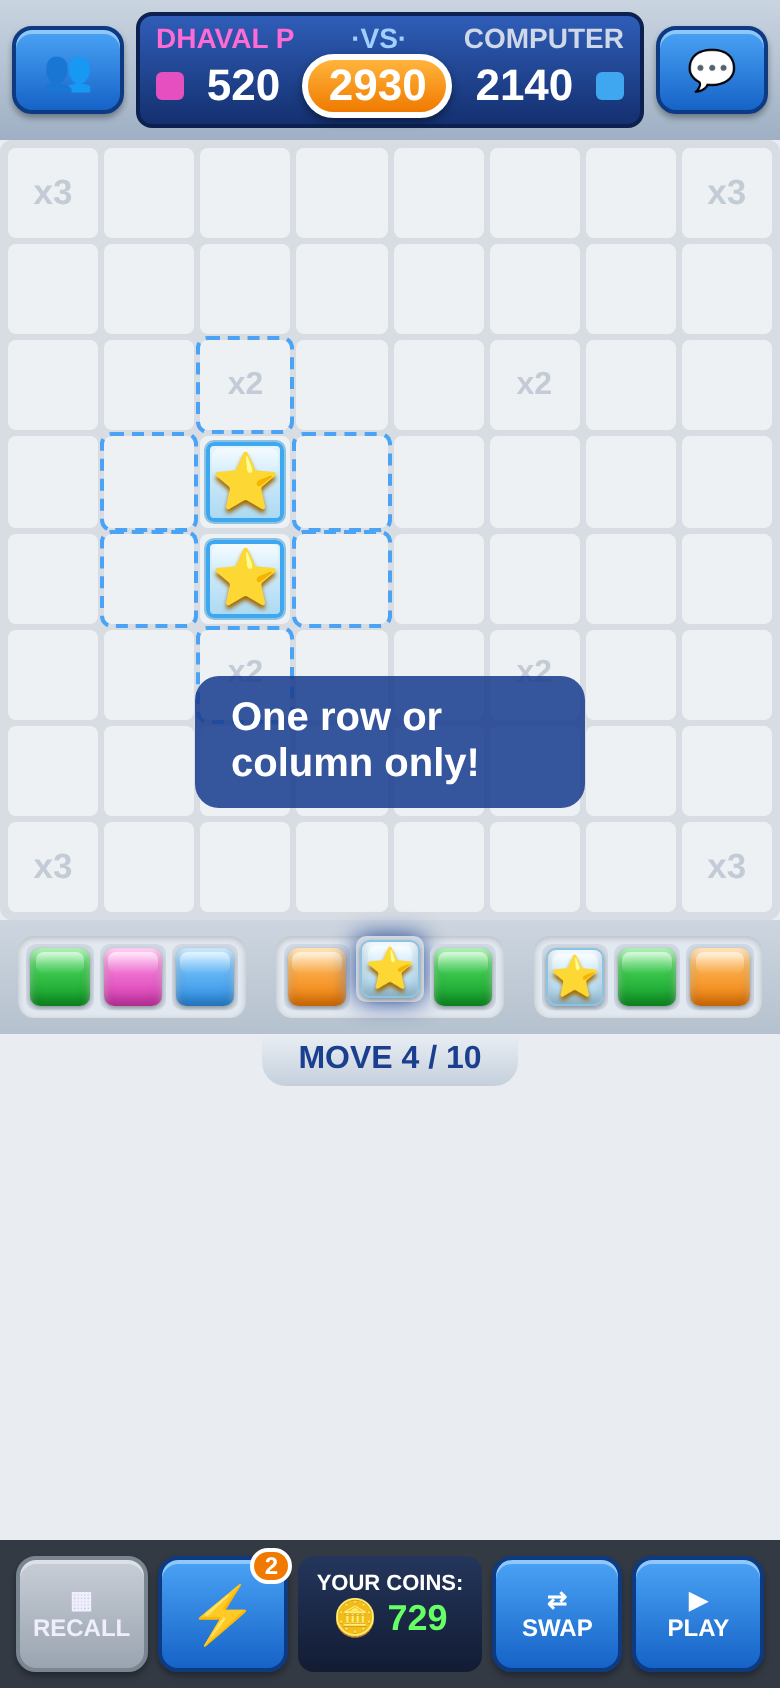
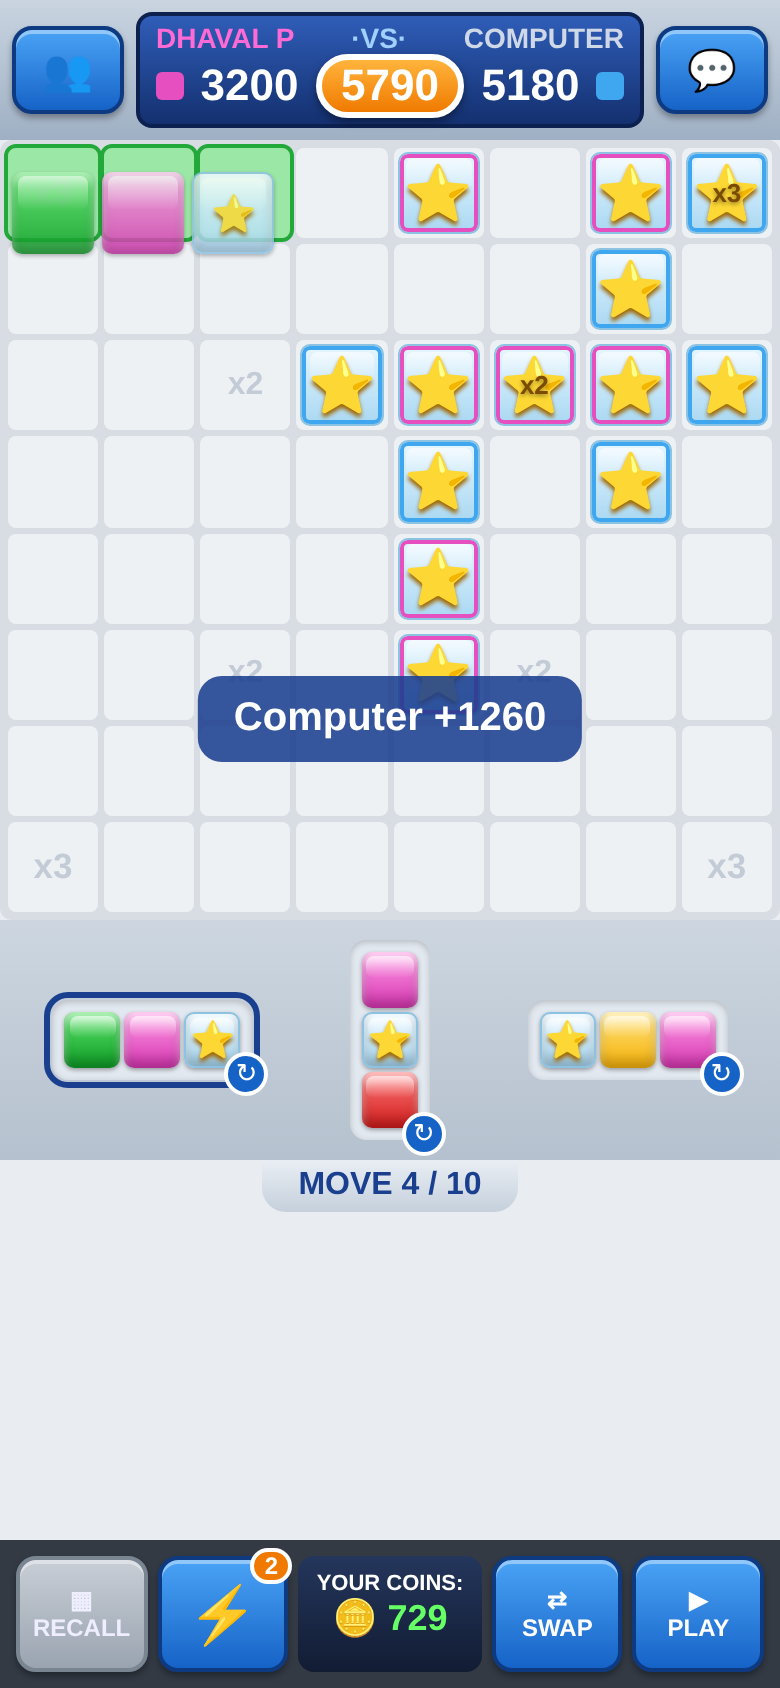
v6: connected 3-tile pieces with rotate, drag ghost preview, place anywhere they fit

diff --git a/app.js b/app.js
@@ -1,56 +1,75 @@
-const L=Logic,$=id=>document.getElementById(id);let g,placed=[],sel=null,boost=false,busy=false;
+const L=Logic,$=id=>document.getElementById(id);let g,pieces=[],sel=null,boost=false,busy=false,ghost=null,pops=[];
 const toast=document.createElement('div');toast.id='toast';document.body.appendChild(toast);
 function say(t){toast.textContent=t;toast.style.opacity=1;clearTimeout(say.t);say.t=setTimeout(()=>toast.style.opacity=0,1300);}
 function beep(f){try{const a=beep.c||(beep.c=new AudioContext()),o=a.createOscillator(),v=a.createGain();o.frequency.value=f;v.gain.value=.05;o.connect(v);v.connect(a.destination);o.start();o.stop(a.currentTime+.08);}catch(e){}}
 function tileHTML(c){return c==='star'?'<div class="tile star"><span>⭐</span></div>':'<div class="tile '+c+'"></div>';}
 const NAMES=()=>['DHAVAL P',g.mode==='ai'?'COMPUTER':'PLAYER 2'];
-function cur(){const b=g.board.map(r=>r.slice());placed.forEach(p=>b[p.r][p.c]=p.color==='star'?{star:true,fresh:true,mult:L.mult(p.r,p.c)}:{color:p.color,fresh:true});return b;}
-const usedSlot=i=>placed.some(p=>p.slot===i);
-function human(){return !g.over&&(g.mode==='pvp'||g.turn===0);}
-function firstFree(){const r=g.racks[g.turn];for(let i=0;i<9;i++)if(r[i]&&!usedSlot(i))return i;return null;}
+const placed=()=>pieces.flatMap(p=>p.tiles);
+function cur(){const b=g.board.map(r=>r.slice());placed().forEach(p=>b[p.r][p.c]=p.color==='star'?{star:true,fresh:true,mult:L.mult(p.r,p.c)}:{color:p.color,fresh:true});return b;}
+const usedSet=s=>pieces.some(p=>p.s===s);
+function human(){return !g.over&&(g.mode==='pvp'||g.turn===0)&&!busy;}
+function firstFree(){const r=g.racks[g.turn];for(let s=0;s<3;s++)if(r[3*s]&&!usedSet(s))return s;return null;}
+function tilesAt(s,r,c){return L.pieceTiles(g.racks[g.turn],s,g.orient[g.turn][s],r,c);}
 function render(){setTimeout(fit,0);const b=cur(),bd=$('board');bd.innerHTML='';
+ const gk=ghost?new Set(ghost.tiles.map(t=>t.r*8+t.c)):new Set();
  for(let r=0;r<8;r++)for(let c=0;c<8;c++){const d=document.createElement('div'),m=L.mult(r,c);d.className='cell'+(m>1?' m'+m:'');d.dataset.r=r;d.dataset.c=c;const t=b[r][c];
   if(t){const e=document.createElement('div');if(t.star){e.className='tile star '+(t.fresh?'fresh':t.owner===0?'mine':'theirs');e.innerHTML='<span>⭐</span>'+(t.mult>1&&!t.fresh?'<em>x'+t.mult+'</em>':'');}
    else e.className='tile '+t.color+(t.fresh?' fresh':'');d.appendChild(e);d.className='cell';}
   else if(pops.some(q=>q.r===r&&q.c===c)){const q=pops.find(q=>q.r===r&&q.c===c),e=document.createElement('div');e.className='tile pop '+q.color;d.appendChild(e);}
-  else if(sel!==null&&human()&&L.validNext(g.board,placed,r,c))d.classList.add('ok');bd.appendChild(d);}
+  if(gk.has(r*8+c))d.classList.add(ghost.ok?'gok':'gbad');bd.appendChild(d);}
  const rk=$('rack');rk.innerHTML='';const who=g.mode==='pvp'?g.turn:0,rack=g.racks[who];
- for(let s=0;s<3;s++){const set=document.createElement('div');set.className='set';
-  for(let j=0;j<3;j++){const i=s*3+j,col=rack[i],d=document.createElement('div');d.className='rt'+(sel===i&&g.turn===who?' sel':'');d.dataset.i=i;
-   if(col&&!(g.turn===who&&usedSlot(i)))d.innerHTML=tileHTML(col);set.appendChild(d);}rk.appendChild(set);}
+ for(let s=0;s<3;s++){const set=document.createElement('div'),o=g.orient[who][s];set.className='set '+o+(sel===s&&g.turn===who?' sel':'');set.dataset.s=s;
+  const hidden=!rack[3*s]||(g.turn===who&&usedSet(s));
+  for(let j=0;j<3;j++){const d=document.createElement('div');d.className='rt';if(!hidden)d.innerHTML=tileHTML(rack[3*s+j]);set.appendChild(d);}
+  if(!hidden){const rb=document.createElement('button');rb.className='rot';rb.textContent='↻';rb.dataset.s=s;set.appendChild(rb);}else set.classList.add('empty');
+  rk.appendChild(set);}
  $('s0').textContent=g.scores[0];$('s1').textContent=g.scores[1];$('pot').textContent=g.pot;
  $('n1').textContent=NAMES()[1];$('n0').className=g.turn===0?'on':'';$('n1').className=g.turn===1?'on':'';
  const mv=Math.min(g.moves[g.turn]+1,10),fin=L.isFinal(g)&&!g.over;$('banner').textContent=g.over?'GAME OVER':(fin?'FINAL MOVE!':'MOVE '+mv+' / 10');$('banner').className=fin?'final':'';
  $('badge').textContent=g.power[g.turn];$('power').className='btn'+(boost?' on':'');$('coinN').textContent=g.coins[0];
- const h=human()&&!busy;$('play').disabled=!h;$('recall').disabled=!h||!placed.length;$('swap').disabled=!h||placed.length>0;$('power').disabled=!h||g.power[g.turn]<1;}
-function place(r,c){if(sel===null||!human()||busy)return;const col=g.racks[g.turn][sel];if(!col||usedSlot(sel))return;
- if(!L.validNext(g.board,placed,r,c)){say(L.inLine(placed,r,c)?'Must touch a tile':'One row or column only!');beep(200);return;}
- placed.push({r,c,color:col,slot:sel});sel=firstFree();beep(600);render();}
-$('rack').onclick=e=>{const t=e.target.closest('.rt');if(!t||!human())return;const i=+t.dataset.i;if(!g.racks[g.turn][i]||usedSlot(i))return;sel=i;render();};
-$('board').onclick=e=>{const t=e.target.closest('.cell');if(!t)return;const r=+t.dataset.r,c=+t.dataset.c,i=placed.findIndex(p=>p.r===r&&p.c===c);
- if(i>=0){if(i===placed.length-1){sel=placed.pop().slot;render();}return;}place(r,c);};
-let drag=null;$('rack').addEventListener('pointerdown',e=>{const t=e.target.closest('.rt');if(!t||!human())return;const i=+t.dataset.i;if(!g.racks[g.turn][i]||usedSlot(i))return;sel=i;render();
- drag=document.createElement('div');drag.className='drag';drag.innerHTML=tileHTML(g.racks[g.turn][i]);document.body.appendChild(drag);mv(e);});
-function mv(e){if(drag){drag.style.left=e.clientX-22+'px';drag.style.top=e.clientY-60+'px';}}
-addEventListener('pointermove',mv);addEventListener('pointerup',e=>{if(!drag)return;drag.remove();drag=null;const el=document.elementFromPoint(e.clientX,e.clientY-38),c=el&&el.closest('.cell');if(c)place(+c.dataset.r,+c.dataset.c);});
-$('recall').onclick=()=>{placed=[];sel=firstFree();boost=false;render();};
+ const h=human();$('play').disabled=!h;$('recall').disabled=!h||!pieces.length;$('swap').disabled=!h||pieces.length>0;$('power').disabled=!h||g.power[g.turn]<1;}
+function tryPlace(s,r,c){if(s===null||!human()||usedSet(s)||!g.racks[g.turn][3*s])return false;const t=tilesAt(s,r,c);
+ if(!L.validPiece(g.board,placed(),t)){say('Doesn\'t fit there');beep(200);return false;}
+ pieces.push({s,tiles:t});sel=firstFree();beep(600);render();return true;}
+function rotate(s){if(!human()||usedSet(s))return;g.orient[g.turn][s]=g.orient[g.turn][s]==='h'?'v':'h';sel=s;render();}
+$('rack').onclick=e=>{const rb=e.target.closest('.rot');if(rb){rotate(+rb.dataset.s);return;}};
+$('board').onclick=e=>{const t=e.target.closest('.cell');if(!t||!human())return;const r=+t.dataset.r,c=+t.dataset.c;
+ const last=pieces[pieces.length-1];if(last&&last.tiles.some(q=>q.r===r&&q.c===c)){pieces.pop();sel=last.s;render();return;}tryPlace(sel,r,c);};
+// drag whole piece: pointer events, no page scroll
+let drag=null;
+$('rack').addEventListener('pointerdown',e=>{if(e.target.closest('.rot'))return;const set=e.target.closest('.set');if(!set||set.classList.contains('empty')||!human())return;
+ e.preventDefault();const s=+set.dataset.s,now=Date.now();
+ drag={s,x0:e.clientX,y0:e.clientY,moved:false,el:null,tap:now};try{set.setPointerCapture(e.pointerId);}catch(_){}});
+addEventListener('pointermove',e=>{if(!drag)return;e.preventDefault();
+ if(!drag.moved&&Math.hypot(e.clientX-drag.x0,e.clientY-drag.y0)>8){drag.moved=true;sel=drag.s;render();
+  const el=document.createElement('div');el.className='drag set '+g.orient[g.turn][drag.s];const rack=g.racks[g.turn];for(let j=0;j<3;j++){const d=document.createElement('div');d.className='rt big';d.innerHTML=tileHTML(rack[3*drag.s+j]);el.appendChild(d);}document.body.appendChild(el);drag.el=el;}
+ if(!drag.moved)return;const cs=$('board').querySelector('.cell').getBoundingClientRect().width;
+ drag.el.style.setProperty('--dt',cs+'px');const ox=e.clientX-cs/2,oy=e.clientY-cs*1.6;drag.el.style.left=ox+'px';drag.el.style.top=oy+'px';
+ const el=document.elementFromPoint(ox+cs/2,oy+cs/2),cell=el&&el.closest('#board .cell');
+ const ng=cell?(()=>{const t=tilesAt(drag.s,+cell.dataset.r,+cell.dataset.c);return {tiles:t.filter(q=>q.r<8&&q.c<8),ok:L.validPiece(g.board,placed(),t),r:+cell.dataset.r,c:+cell.dataset.c};})():null;
+ if(JSON.stringify(ng)!==JSON.stringify(ghost)){ghost=ng;render();}},{passive:false});
+addEventListener('pointerup',e=>{if(!drag)return;const d=drag;drag=null;
+ if(d.moved){d.el&&d.el.remove();const gh=ghost;ghost=null;if(gh)tryPlace(d.s,gh.r,gh.c);else render();return;}
+ if(sel===d.s)rotate(d.s);else{sel=d.s;render();}});
+addEventListener('pointercancel',()=>{if(drag){drag.el&&drag.el.remove();drag=null;ghost=null;render();}});
+document.addEventListener('touchmove',e=>{if(drag)e.preventDefault();},{passive:false});
+$('recall').onclick=()=>{pieces=[];sel=firstFree();boost=false;render();};
 $('power').onclick=()=>{boost=!boost;say(boost?'⚡ Double points this move!':'Power-up off');render();};
-$('swap').onclick=()=>{L.swap(g);say('All 9 tiles swapped');next();};
-$('play').onclick=()=>{const np=placed.length,p=g.turn,res=L.commit(g,placed,boost);pop(res);markOwner(p);placed=[];boost=false;beep(res.score?900:500);
- say(res.score?'+'+res.score+' ⭐x'+res.cleared:(np?'No match – need 3!':'Passed (pot +100)'));next();};
-let pops=[];function pop(res){pops=res.pops||[];setTimeout(()=>{pops=[];render();},450);}
+$('swap').onclick=()=>{L.swap(g);say('All pieces swapped');next();};
+$('play').onclick=()=>{const np=pieces.length,p=g.turn,res=L.commit(g,placed(),boost);pop(res);markOwner(p);pieces=[];boost=false;beep(res.score?900:500);
+ say(res.score?'+'+res.score+' (cleared '+res.cleared+')':(np?'No match – need 3!':'Passed (pot +100)'));next();};
+function pop(res){pops=res.pops||[];setTimeout(()=>{pops=[];render();},450);}
 function markOwner(p){g.board.forEach(r=>r.forEach(t=>{if(t&&t.star&&t.owner===undefined)t.owner=p;}));}
 function next(){sel=g.over?null:firstFree();render();if(g.over)return finish();
  if(g.mode==='pvp'){say(NAMES()[g.turn]+"'s turn");return;}
- if(g.turn===1){busy=true;render();setTimeout(()=>{const m=L.aiMove(g);placed=m.pl;render();setTimeout(()=>{const res=L.commit(g,placed,m.boost);pop(res);markOwner(1);placed=[];busy=false;
-  say(res.score?'Computer +'+res.score:'Computer passes');next();},800);},500);}}
+ if(g.turn===1){busy=true;render();setTimeout(()=>{const m=L.aiMove(g);pieces=[];for(let i=0;i<m.pl.length;i+=3)pieces.push({s:Math.floor(m.pl[i].slot/3),tiles:m.pl.slice(i,i+3)});render();
+  setTimeout(()=>{const res=L.commit(g,placed(),m.boost);pop(res);markOwner(1);pieces=[];busy=false;say(res.score?'Computer +'+res.score:'Computer passes');next();},800);},500);}}
 function finish(){const n=NAMES(),w=g.winner;
  $('msg').innerHTML=(w<0?'Tie game!':n[w]+' wins the pot!')+'<br>'+g.scores[0]+' – '+g.scores[1]+'<br>Coins: '+g.coins[0];localStorage.coins=g.coins[0];$('overlay').classList.add('show');}
-function start(mode){g=L.newGame(mode);g.coins[0]=+(localStorage.coins||729);placed=[];boost=false;busy=false;sel=firstFree();$('overlay').classList.remove('show');render();}
+function start(mode){g=L.newGame(mode);g.coins[0]=+(localStorage.coins||729);pieces=[];boost=false;busy=false;sel=firstFree();$('overlay').classList.remove('show');render();}
 $('vsAI').onclick=()=>start('ai');$('vsP').onclick=()=>start('pvp');$('menuBtn').onclick=()=>$('overlay').classList.add('show');
-$('infoBtn').onclick=()=>say('One row/column per move · 3+ same color scores & clears (⭐ = wild, permanent)');
-start('ai');$('overlay').classList.add('show');
-// fit the square board into whatever height is left after header/tray/banner/footer
+$('infoBtn').onclick=()=>say('Drag a 3-tile piece · tap it again or ↻ to rotate · place anywhere it fits');
 function fit(){const bd=$('board'),app=$('app');let used=0;[...app.children].forEach(c=>{if(c!==bd&&c.id!=='overlay')used+=c.getBoundingClientRect().height;});
  const st=getComputedStyle(app),avail=app.clientHeight-parseFloat(st.paddingTop)-used-4;bd.style.width=Math.max(120,Math.min(app.clientWidth,avail))+'px';}
-addEventListener('resize',fit);fit();setTimeout(fit,100);
+addEventListener('resize',fit);
+start('ai');$('overlay').classList.add('show');

diff --git a/logic.js b/logic.js
@@ -8,7 +8,7 @@ function deal(rng){const r=[];for(let i=0;i<RACK;i++)r.push(rnd(rng));return r;}
 function newGame(mode,rng){rng=rng||Math.random;
  const b=[];for(let r=0;r<N;r++){b.push([]);for(let c=0;c<N;c++)b[r].push(null);}
  [[3,3],[3,4],[4,3],[4,4]].forEach(([r,c])=>b[r][c]={color:rndColor(rng)});
- return {board:b,mode,turn:0,moves:[0,0],scores:[0,0],pot:1000,racks:[deal(rng),deal(rng)],power:[2,2],coins:[729,0],over:false,rng};}
+ return {orient:[['h','h','h'],['h','h','h']],board:b,mode,turn:0,moves:[0,0],scores:[0,0],pot:1000,racks:[deal(rng),deal(rng)],power:[2,2],coins:[729,0],over:false,rng};}
 const inb=(r,c)=>r>=0&&c>=0&&r<N&&c<N;
 function canPlace(b,r,c){ if(!inb(r,c)||b[r][c])return false;
  if(b.every(row=>row.every(t=>!t)))return true; // empty board: anywhere
@@ -19,6 +19,10 @@ function inLine(placed,r,c){if(!placed.length)return true;
 function withPlaced(b,placed){const nb=b.map(x=>x.slice());placed.forEach(p=>nb[p.r][p.c]={color:p.color});return nb;}
 function validNext(b,placed,r,c){return canPlace(withPlaced(b,placed),r,c)&&inLine(placed,r,c);}
 function isLine(pl){return pl.every((p,i)=>inLine(pl.slice(0,i),p.r,p.c));}
+// pieces: set s = rack slots 3s..3s+2, straight line of 3, orient 'h' or 'v', anchored at first tile
+function pieceTiles(rack,s,o,r,c){return [0,1,2].map(j=>({r:o==='h'?r:r+j,c:o==='h'?c+j:c,color:rack[3*s+j],slot:3*s+j}));}
+// only rule: the straight 3-tile piece fits inside the board on 3 empty cells (anywhere, no touching / collinear rules)
+function validPiece(b,placed,tiles){const nb=withPlaced(b,placed);return tiles.every(t=>inb(t.r,t.c)&&!nb[t.r][t.c]&&t.color);}
 function group(b,r,c){const col=b[r][c].color,seen=new Set(),st=[[r,c]],out=[];
  while(st.length){const [y,x]=st.pop(),k=y*N+x;if(seen.has(k))continue;seen.add(k);
   if(!inb(y,x))continue;const t=b[y][x];if(!t)continue;
@@ -34,31 +38,30 @@ function evaluate(b,pl,boost){const nb=b.map(row=>row.map(t=>t&&{...t}));let sco
    g.forEach(([y,x])=>{if(!nb[y][x].star){cleared++;pops.push({r:y,c:x,color:nb[y][x].color});}});}}
  for(const p of pops)nb[p.r][p.c]=null; // scored colored tiles are cleared; stars stay
  nb.forEach(r=>r.forEach(t=>t&&delete t.fresh));if(boost)score*=2;return {score,board:nb,cleared,pops};}
-function commit(g,pl,boost){const p=g.turn;if(!isLine(pl))throw new Error('tiles must be in one row or column');
+function commit(g,pl,boost){const p=g.turn;
  if(boost){if(g.power[p]<1)boost=false;else g.power[p]--;}
  const res=evaluate(g.board,pl,boost);g.board=res.board;g.scores[p]+=res.score;g.pot+=Math.round(res.score/2)+100;
  const rack=g.racks[p];pl.forEach(x=>{let i=(x.slot!=null&&rack[x.slot]===x.color)?x.slot:rack.indexOf(x.color);if(i>=0)rack[i]=null;});
  endTurn(g);return res;}
-function refill(g){const r=g.racks[g.turn];for(let i=0;i<RACK;i++)if(!r[i])r[i]=rnd(g.rng);}
-function swap(g){g.racks[g.turn]=deal(g.rng);endTurn(g);}
+function refill(g){const r=g.racks[g.turn];for(let s=0;s<3;s++)if(!r[3*s]){for(let j=0;j<3;j++)r[3*s+j]=rnd(g.rng);g.orient[g.turn][s]='h';}}
+function swap(g){g.racks[g.turn]=deal(g.rng);g.orient[g.turn]=['h','h','h'];endTurn(g);}
 function endTurn(g){g.moves[g.turn]++;
  if(g.moves[0]>=MOVES&&g.moves[1]>=MOVES){g.over=true;const w=g.scores[0]===g.scores[1]?-1:(g.scores[0]>g.scores[1]?0:1);g.winner=w;
   if(w>=0)g.scores[w]+=g.pot;g.coins[0]+=w===0?50:10;return;}
  g.turn=1-g.turn;refill(g);}
 function isFinal(g){return g.moves[g.turn]===MOVES-1;}
-// greedy bot: from every first placement, greedily extend along a line (up to 5 tiles), keep best scoring prefix
+// greedy bot over whole pieces (both orientations), collinear, up to 3 pieces
 function aiMove(g){const b=g.board,rack=g.racks[g.turn];let best={score:0,pl:[]};
- const sameNb=(nb,r,c,col)=>[[1,0],[-1,0],[0,1],[0,-1]].filter(([dr,dc])=>inb(r+dr,c+dc)&&nb[r+dr][c+dc]&&(nb[r+dr][c+dc].color===col||col==='star'||nb[r+dr][c+dc].star)).length;
- function cands(pl,used){const nb=withPlaced(b,pl),out=[];
-  for(let r=0;r<N;r++)for(let c=0;c<N;c++){if(!canPlace(nb,r,c)||!inLine(pl,r,c))continue;const seen=new Set();
-   rack.forEach((col,i)=>{if(!col||used.has(i)||seen.has(col))return;seen.add(col);out.push({r,c,color:col,slot:i,h:sameNb(nb,r,c,col)});});}return out;}
- for(const f of cands([],new Set())){let pl=[f],used=new Set([f.slot]);
-  for(let step=0;step<5;step++){const cur=evaluate(b,pl).score;if(cur>best.score)best={score:cur,pl:pl.slice()};
-   let nx=null,ns=-1;for(const c of cands(pl,used)){const s=evaluate(b,pl.concat([c])).score*10+c.h;if(s>ns){ns=s;nx=c;}}
-   if(!nx||ns<=0)break;pl.push(nx);used.add(nx.slot);}
-  const cur=evaluate(b,pl).score;if(cur>best.score)best={score:cur,pl:pl.slice()};}
+ function cands(pl,usedSets){const out=[];for(let s=0;s<3;s++){if(usedSets.includes(s)||!rack[3*s])continue;
+  for(const o of ['h','v'])for(let r=0;r<N;r++)for(let c=0;c<N;c++){const t=pieceTiles(rack,s,o,r,c);if(validPiece(b,pl,t))out.push({s,o,t});}}return out;}
+ const first=cands([],[]).map(x=>({x,sc:evaluate(b,x.t).score})).sort((a,b)=>b.sc-a.sc).slice(0,40);
+ for(const {x} of first){let pl=x.t.slice(),used=[x.s];
+  for(let k=0;k<2;k++){const sc=evaluate(b,pl).score;if(sc>best.score)best={score:sc,pl:pl.slice()};
+   let nx=null,ns=0;for(const c of cands(pl,used)){const v=evaluate(b,pl.concat(c.t)).score;if(v>ns){ns=v;nx=c;}}
+   if(!nx||ns<=sc)break;pl=pl.concat(nx.t);used.push(nx.s);}
+  const sc=evaluate(b,pl).score;if(sc>best.score)best={score:sc,pl:pl.slice()};}
  if(best.score<=0)return {pl:[],boost:false};
  const boost=g.power[g.turn]>0&&(best.score>=120||isFinal(g));return {pl:best.pl,boost};}
-const api={rnd,deal,COLORS,N,MOVES,RACK,mult,newGame,canPlace,inLine,validNext,isLine,evaluate,commit,swap,aiMove,isFinal,refill};
+const api={pieceTiles,validPiece,rnd,deal,COLORS,N,MOVES,RACK,mult,newGame,canPlace,inLine,validNext,isLine,evaluate,commit,swap,aiMove,isFinal,refill};
 if(typeof module!=='undefined')module.exports=api;else root.Logic=api;
 })(this);

diff --git a/test.js b/test.js
@@ -19,18 +19,25 @@ a.ok(L.canPlace(empty(),0,0)); a.ok(!L.evaluate(b4,[{r:0,c:0,color:'red'}]).boar
 // straight line rule
 a.ok(L.inLine([{r:2,c:3}],2,6));a.ok(L.inLine([{r:2,c:3}],5,3));a.ok(!L.inLine([{r:2,c:3}],3,4));
 a.ok(!L.inLine([{r:2,c:3},{r:2,c:4}],3,3));a.ok(L.validNext(b,[{r:3,c:5,color:'red'}],3,6));a.ok(!L.validNext(b,[{r:3,c:5,color:'red'}],2,4));
-const z0=L.newGame('ai',rng);a.throws(()=>L.commit(z0,[{r:2,c:3,color:'red'},{r:5,c:4,color:'red'}]));
+
 // zero-tile move + 9-tile refill
 const z=L.newGame('ai',rng),pot=z.pot;const kept=z.racks[0].slice(3);
-z.board[2][3]=null;L.commit(z,[{r:2,c:3,color:z.racks[0][0],slot:0},{r:2,c:4,color:z.racks[0][1],slot:1}]);
-a.equal(z.racks[0].filter(x=>x).length,7);a.deepEqual(z.racks[0].slice(3),kept);
+z.board=empty();z.board[3][3]={color:'x'};const pc=L.pieceTiles(z.racks[0],0,'h',2,2);a.ok(L.validPiece(z.board,[],pc));L.commit(z,pc);
+a.equal(z.racks[0].filter(x=>x).length,6);a.deepEqual(z.racks[0].slice(3),kept);
 L.commit(z,[]);a.ok(z.turn===0);a.equal(z.racks[0].filter(x=>x).length,9);a.deepEqual(z.racks[0].slice(3),kept);a.equal(z.moves[1],1);
 // bot passes when nothing scores; bot moves are straight lines
 const q=L.newGame('ai',rng);q.board=empty();q.board[3][3]={color:'red'};q.board[3][4]={color:'green'};q.racks[0]=['yellow','blue','pink','yellow','blue','pink','orange',null,null];
 a.deepEqual(L.aiMove(q).pl,[]);
 const q2=L.newGame('ai',rng);q2.board=empty();q2.board[3][3]={color:'red'};q2.racks[0]=['red','red','red','blue','blue','blue','green','green','green'];
-const m2=L.aiMove(q2);a.ok(m2.pl.length>=2&&L.isLine(m2.pl));
+const m2=L.aiMove(q2);a.ok(m2.pl.length%3===0&&m2.pl.length>=3);
+// pieces: 3 connected cells, rotate, bounds, emptiness, touch, collinearity
+const R=['red','blue','star','green','green','green','pink','pink','pink'],pb=empty();pb[3][3]={color:'red'};
+const hz=L.pieceTiles(R,0,'h',2,3),vt=L.pieceTiles(R,0,'v',4,3);a.deepEqual(hz.map(t=>[t.r,t.c]),[[2,3],[2,4],[2,5]]);a.deepEqual(vt.map(t=>[t.r,t.c]),[[4,3],[5,3],[6,3]]);
+a.ok(L.validPiece(pb,[],hz)&&L.validPiece(pb,[],vt));a.ok(!L.validPiece(pb,[],L.pieceTiles(R,0,'h',2,6)));a.ok(!L.validPiece(pb,[],L.pieceTiles(R,0,'h',3,2)));
+a.ok(L.validPiece(pb,[],L.pieceTiles(R,0,'h',0,0))); // no touching neededa.ok(L.validPiece(empty(),[],L.pieceTiles(R,0,'v',0,0)));
+a.ok(L.validPiece(pb,hz,L.pieceTiles(R,1,'h',1,3)));a.ok(L.validPiece(pb,vt,L.pieceTiles(R,1,'h',7,4)));a.ok(!L.validPiece(pb,hz,L.pieceTiles(R,1,'v',1,4))); // independent pieces; overlap rejected
+const far=L.newGame('ai',rng);far.board=empty();far.board[3][3]={color:'red'};const p1=L.pieceTiles(far.racks[0],0,'h',0,0),p2=L.pieceTiles(far.racks[0],1,'v',5,7);a.ok(L.validPiece(far.board,p1,p2));L.commit(far,p1.concat(p2));a.equal(far.racks[0].filter(x=>x).length,3);
 // name
 const all=['app.js','index.html','logic.js'].map(f=>fs.readFileSync(__dirname+'/'+f,'utf8')).join('');a.ok(!/dimble/i.test(all)&&/COMPUTER/.test(all));
-let n=0;const t0=Date.now();while(!g.over){const m=L.aiMove(g);a.ok(L.isLine(m.pl));L.commit(g,m.pl,m.boost);n++;}
+let n=0;const t0=Date.now();while(!g.over){const m=L.aiMove(g);a.ok(m.pl.length%3===0);L.commit(g,m.pl,m.boost);n++;}
 a.equal(n,20);a.deepEqual(g.moves,[10,10]);console.log('ok',g.scores,g.winner,(Date.now()-t0)+'ms');

diff --git a/style.css b/style.css
@@ -56,3 +56,15 @@ footer{margin-top:auto}
 #board{width:min(100%,calc(100dvh - 252px - env(safe-area-inset-top) - env(safe-area-inset-bottom)))}
 .drag{width:44px;height:44px}
 .tile.pop{animation:pop .45s ease-out forwards}@keyframes pop{0%{transform:scale(1)}40%{transform:scale(1.25)}100%{transform:scale(0);opacity:0}}
+/* v6: connected 3-tile pieces */
+#rack,#board{touch-action:none}
+#rack{align-items:center;min-height:calc(var(--rt,30px)*3 + 30px)}
+.set{position:relative;gap:0;padding:5px;cursor:grab}.set.v{flex-direction:column}.set.empty{opacity:.35}
+.set .rt{--t:30px;border-radius:0;background:transparent}.set.h .rt:first-child{border-radius:6px 0 0 6px}
+.set.sel{outline:3px solid #1b3f8f;outline-offset:1px}.set .rt .tile{inset:1px}
+.rot{position:absolute;right:-8px;bottom:-8px;width:22px;height:22px;border-radius:11px;border:2px solid #fff;background:#1663c7;color:#fff;font-size:13px;padding:0;line-height:18px}
+.drag.set{position:fixed;padding:0;background:none;box-shadow:none;width:auto;height:auto;opacity:.85;pointer-events:none;z-index:30}
+.drag .rt{width:var(--t);height:var(--t)}
+.cell.gok{background:#9be7a6;outline:2px solid #23a83a}.cell.gbad{background:#f4a3a3;outline:2px solid #d22}
+#app{overscroll-behavior:none}
+.drag.set .rt.big{width:var(--dt,40px);height:var(--dt,40px)}.drag.set .rt.big .tile{inset:2px}

diff --git a/index.html b/index.html
@@ -14,7 +14,7 @@
 <button class="btn" id="power">⚡<span id="badge">2</span></button>
 <div id="coins">YOUR COINS:<br><b>🪙 <span id="coinN">729</span></b></div>
 <button class="btn" id="swap">⇄<br>SWAP</button><button class="btn" id="play">▶<br>PLAY</button></footer>
-<div id="overlay" class="show"><div class="card"><h1>⭐ Star Tiles</h1><p id="msg">It takes 3 to score: connect 3+ same-color tiles to score and clear them. Stars from your rack are wild and permanent. Place any of your 9 tiles in one straight row or column, then PLAY. 10 moves each — biggest score takes the pot!</p>
+<div id="overlay" class="show"><div class="card"><h1>⭐ Star Tiles</h1><p id="msg">It takes 3 to score: connect 3+ same-color tiles to score and clear them. Stars from your rack are wild and permanent. Drag your 3-tile pieces onto the board (tap again or ↻ to rotate). Place 0–3 pieces anywhere they fit on empty squares, then PLAY. 10 moves each — biggest score takes the pot!</p>
 <button class="btn big" id="vsAI">Play vs COMPUTER</button><button class="btn big" id="vsP">Pass &amp; Play (2 players)</button></div></div>
 </div><script src="logic.js"></script><script src="app.js"></script>
 <script>if('serviceWorker'in navigator)navigator.serviceWorker.register('sw.js');</script></body></html>

diff --git a/sw.js b/sw.js
@@ -1,4 +1,4 @@
-const C='star-tiles-v5',F=['./','index.html','style.css','app.js','logic.js','manifest.json','icon-180.png','icon-192.png','icon-512.png'];
+const C='star-tiles-v6',F=['./','index.html','style.css','app.js','logic.js','manifest.json','icon-180.png','icon-192.png','icon-512.png'];
 self.addEventListener('install',e=>{e.waitUntil(caches.open(C).then(c=>c.addAll(F)));self.skipWaiting();});
 self.addEventListener('activate',e=>e.waitUntil(caches.keys().then(k=>Promise.all(k.filter(x=>x!==C).map(x=>caches.delete(x))))));
 self.addEventListener('fetch',e=>e.respondWith(caches.match(e.request).then(r=>r||fetch(e.request))));
